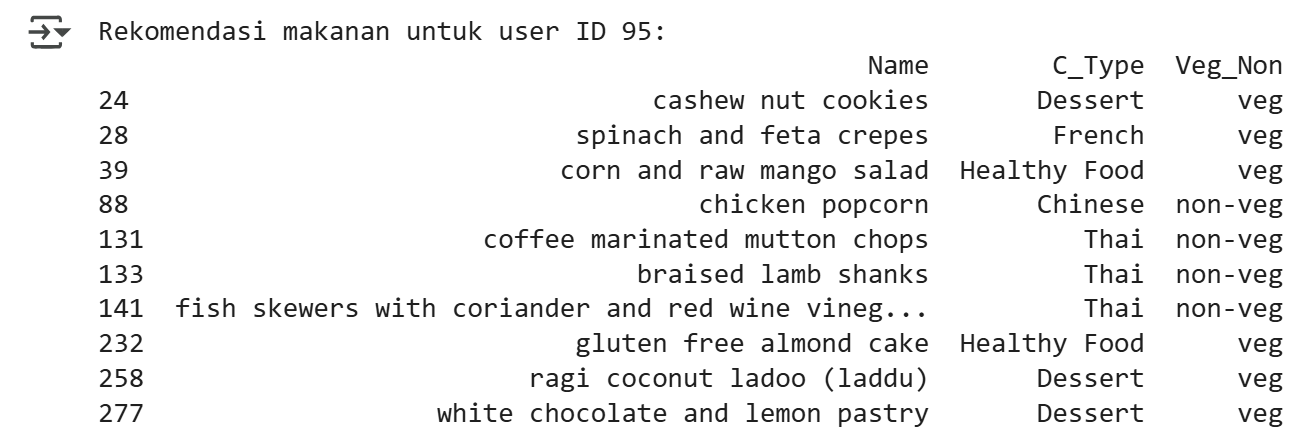
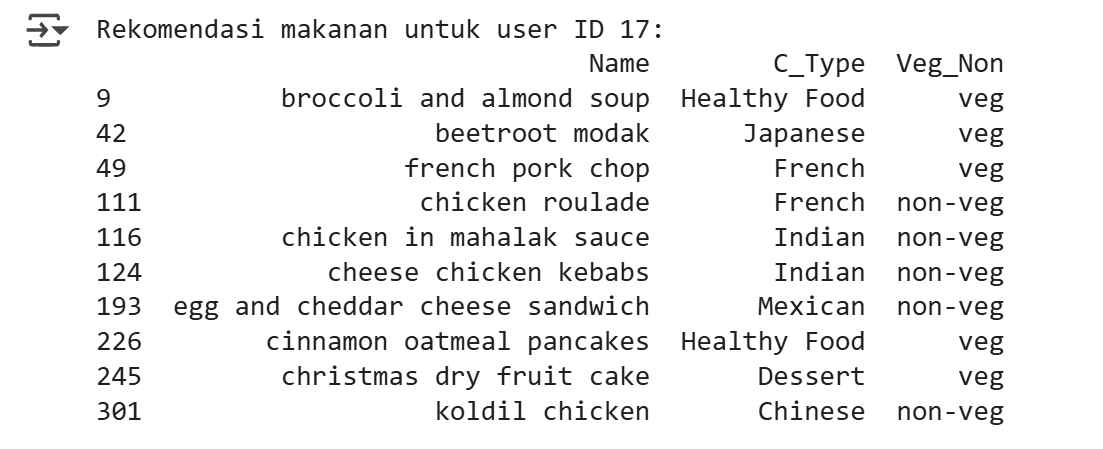
update

diff --git a/proyek_akhir_sistem_rekomendasi_makanan_aksamala_citrayuh_anasita.py b/proyek_akhir_sistem_rekomendasi_makanan_aksamala_citrayuh_anasita.py
@@ -1,10 +1,10 @@
 # -*- coding: utf-8 -*-
-"""Proyek_Akhir_Sistem_Rekomendasi_Makanan_Aksamala_Citrayuh_Anasita (1).ipynb
+"""Proyek_Akhir_Sistem_Rekomendasi_Makanan_Aksamala_Citrayuh_Anasita.ipynb
 
 Automatically generated by Colab.
 
 Original file is located at
-    https://colab.research.google.com/drive/1ddnClYZ1bpGD7i_BLhz0k8YtFrYGVjjb
+    https://colab.research.google.com/drive/16rKaJBKAmpe8EKA8qDGVJche_WXliBG7
 
 # Import Library
 """
@@ -615,5 +615,5 @@ print(f"Root Mean Squared Error (RMSE): {rmse}")
 
 """**Insight:**
 
-Output menunjukkan hasil evaluasi model rekomendasi menggunakan Mean Squared Error (MSE) dan Root Mean Squared Error (RMSE). Nilai MSE sekitar 0.5049158441478518 dan RMSE sekitar 0.7105743058595996 menandakan rata-rata kesalahan prediksi rating model terhadap rating aktual user tersebut. Nilai RMSE sebesar 0.7105743058595996 menunjukkan prediksi model memiliki deviasi sedang dari nilai rating sebenarnya pada skala normalisasi rating.
+Output menunjukkan hasil evaluasi model rekomendasi menggunakan Mean Squared Error (MSE) dan Root Mean Squared Error (RMSE). Nilai MSE sekitar `0.2311313513726633` dan RMSE sekitar `0.4807612207454583` menandakan rata-rata kesalahan prediksi rating model terhadap rating aktual user tersebut. Nilai RMSE sebesar `0.4807612207454583` menunjukkan prediksi model memiliki deviasi sedang dari nilai rating sebenarnya pada skala normalisasi rating.
 """

diff --git a/laporan_submission_2.md b/laporan_submission_2.md
@@ -84,7 +84,6 @@ Untuk memahami data lebih dalam, beberapa tahapan EDA dilakukan, termasuk visual
 2.	Distribusi Jenis Masakan (C_Type): Dari analisis jenis masakan, terlihat bahwa kategori Healthy Food dan Snack adalah yang paling banyak tersedia dalam dataset, sedangkan kategori lain seperti Korean dan Nepalese memiliki jumlah yang lebih sedikit. Hal ini dapat mempengaruhi rekomendasi yang diberikan kepada pengguna.    
 3.	Distribusi Kategori Veg/Non-Veg: Analisis menunjukkan bahwa terdapat keseimbangan antara makanan vegetarian dan non-vegetarian, dengan sedikit lebih banyak makanan vegetarian. Ini penting untuk mempertimbangkan preferensi pengguna dalam rekomendasi.    
 
-
 ## Data Preparation
 Pada tahap ini, dilakukan serangkaian teknik persiapan data (data preparation) yang bertujuan untuk memastikan kualitas dan konsistensi data sebelum digunakan dalam pembangunan model rekomendasi. Proses data preparation dilakukan secara berurutan sebagai berikut:    
 1.	**Pemeriksaan Missing Values**
@@ -121,7 +120,10 @@ Fitur gabungan tersebut diproses menggunakan `TfidfVectorizer` untuk menghasilka
 10. **Normalisasi Nilai Rating**
 Kolom `Rating` dinormalisasi ke skala [0, 1] menggunakan rumus min-max normalization. Hal ini penting karena model deep learning yang digunakan (Collaborative Filtering) lebih stabil jika target berada dalam rentang 0–1.
 
-11. **Pembagian Dataset (Data Splitting)**
+11. **Shuffling Data**
+Sebelum membagi dataset menjadi data pelatihan dan validasi, dilakukan shuffling pada dataset `ratings` menggunakan `ratings = ratings.sample(frac=1, random_state=42).reset_index(drop=True)`. Teknik ini bertujuan untuk mengacak urutan data sehingga model tidak terpengaruh oleh urutan data yang mungkin memiliki pola tertentu.
+
+12. **Pembagian Dataset (Data Splitting)**
 Dataset `ratings` dibagi menjadi data pelatihan (80%) dan data validasi (20%) secara acak. Hal ini bertujuan untuk mengevaluasi performa model pada data yang tidak dilatih. Fitur input (`user`, `food`) dan target (`rating_norm`) dipisahkan untuk digunakan pada tahap pelatihan model Collaborative Filtering.
 
 ## Modeling
@@ -159,7 +161,7 @@ Model ini memanfaatkan interaksi historis pengguna (dalam bentuk rating) untuk m
 5. Setelah pelatihan, model digunakan untuk memprediksi rating makanan yang belum pernah dirating oleh pengguna tertentu.
 6. Makanan dengan prediksi rating tertinggi direkomendasikan ke pengguna.
 
-**Contoh Output dengan ID User 95:**
+**Contoh Output dengan ID User 17:**
 ![Img_2](screenshot/gambar_2.png)
 
 **Kelebihan:**
@@ -186,8 +188,8 @@ Dalam proyek ini, saya menggunakan beberapa metrik evaluasi untuk menilai kinerj
 Hasil ini menunjukkan bahwa dari 5 rekomendasi teratas, hanya 20% yang relevan dengan preferensi pengguna. Ini menunjukkan bahwa meskipun model dapat memberikan beberapa rekomendasi yang relevan, masih ada ruang untuk perbaikan dalam hal akurasi rekomendasi. NDCG yang rendah juga menunjukkan bahwa relevansi item relevan tidak muncul di posisi teratas dalam daftar rekomendasi.
 
 2. Evaluasi Collaborative Filtering:
-- Mean Squared Error (MSE): 0.5049158441478518
-- Root Mean Squared Error (RMSE): 0.7105743058595996
+- Mean Squared Error (MSE): 0.2311313513726633
+- Root Mean Squared Error (RMSE): 0.4807612207454583
 
 **Kesimpulan:**
-Proyek ini berhasil mengembangkan sistem rekomendasi makanan menggunakan dua pendekatan utama: Content-Based Filtering (CBF) dan Collaborative Filtering (CF). Evaluasi menunjukkan bahwa model CBF memiliki Precision@5 dan Recall@5 masing-masing sebesar 0.2000, menandakan bahwa hanya 20% dari rekomendasi teratas yang relevan, dengan NDCG@5 yang rendah (0.1312) menunjukkan perlunya perbaikan dalam akurasi rekomendasi. Sementara itu, model CF menunjukkan MSE sebesar 0.5049 dan RMSE sebesar 0.7106, menunjukkan kesalahan signifikan dalam prediksi rating. Meskipun CF dapat memberikan rekomendasi yang lebih personal, tantangan cold start untuk pengguna baru tetap ada. Oleh karena itu, penerapan metode hybrid yang menggabungkan kedua pendekatan dapat meningkatkan akurasi dan relevansi rekomendasi, serta mengatasi masalah cold start. Secara keseluruhan, sistem rekomendasi ini memiliki potensi besar untuk meningkatkan pengalaman pengguna dan membantu pelaku bisnis kuliner dalam memberikan layanan yang lebih personal dan berbasis data.
+Proyek ini berhasil mengembangkan sistem rekomendasi makanan menggunakan dua pendekatan utama: Content-Based Filtering (CBF) dan Collaborative Filtering (CF). Evaluasi menunjukkan bahwa model CBF memiliki Precision@5 dan Recall@5 masing-masing sebesar 0.2000, menandakan bahwa hanya 20% dari rekomendasi teratas yang relevan, dengan NDCG@5 yang rendah (0.1312) menunjukkan perlunya perbaikan dalam akurasi rekomendasi. Sementara itu, model CF menunjukkan MSE sebesar 0.2311313513726633 dan RMSE sebesar 0.4807612207454583, menunjukkan kesalahan signifikan dalam prediksi rating. Meskipun CF dapat memberikan rekomendasi yang lebih personal, tantangan cold start untuk pengguna baru tetap ada. Oleh karena itu, penerapan metode hybrid yang menggabungkan kedua pendekatan dapat meningkatkan akurasi dan relevansi rekomendasi, serta mengatasi masalah cold start. Secara keseluruhan, sistem rekomendasi ini memiliki potensi besar untuk meningkatkan pengalaman pengguna dan membantu pelaku bisnis kuliner dalam memberikan layanan yang lebih personal dan berbasis data.
